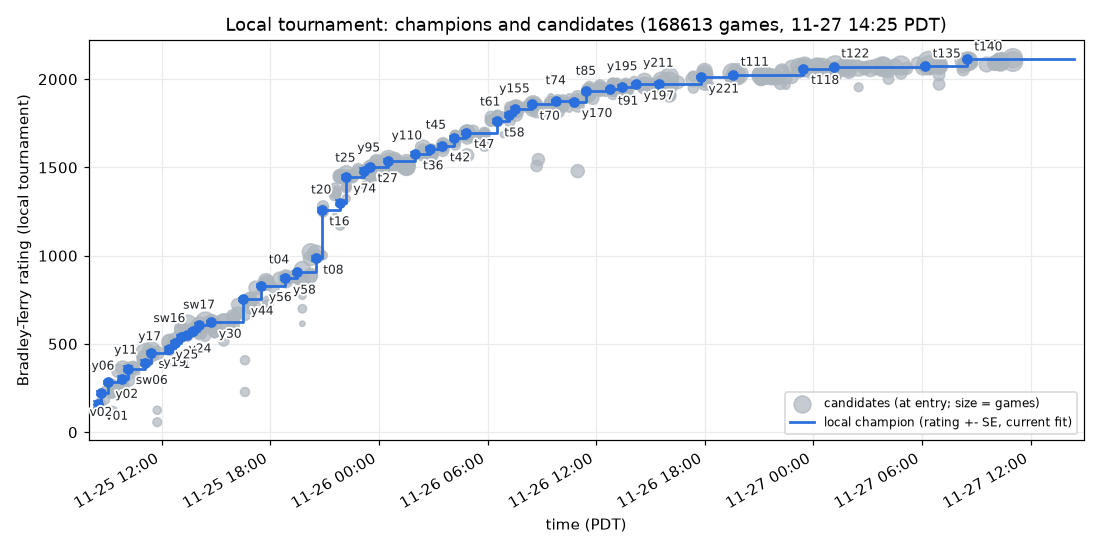
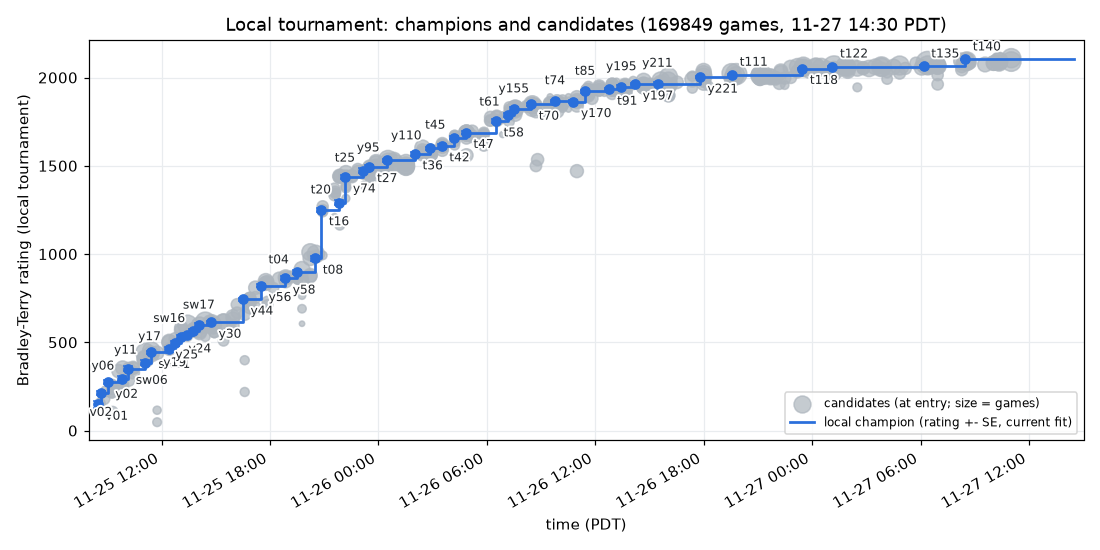
prod: newcomers' first games (tr440-tr441), queue to tr446
Claude-Session: https://claude.ai/code/session_01SzziPSCWtjsjju9cnThDf5

diff --git a/progress/local-elo.md b/progress/local-elo.md
@@ -1,55 +1,55 @@
 # Local tournament Elo
 
-Bradley-Terry ratings of our own bots in the local tournament (`tools/tourney.py`), all 168613 games in one fit as of 2026-11-27 14:26 PDT, so every point is on the same scale; earlier champions are shown at their current rating, and "Gain" is the rating over the champion it replaced. `tools/tourney.py rank` rewrites this table; `tools/tourney.py chart` also redraws the chart.
+Bradley-Terry ratings of our own bots in the local tournament (`tools/tourney.py`), all 169849 games in one fit as of 2026-11-27 14:31 PDT, so every point is on the same scale; earlier champions are shown at their current rating, and "Gain" is the rating over the champion it replaced. `tools/tourney.py rank` rewrites this table; `tools/tourney.py chart` also redraws the chart.
 
 ![local elo](local-elo.png)
 
 | Champion from (PDT) | Bot | Change on base | Submission | Rating +- SE | Gain | Games |
 |---|---|---|---:|---:|---:|---:|
-| 2026-11-25 08:28 | v01 | foundation bot |  | 158 +- 18 |  | 435 |
-| 2026-11-25 08:39 | v02 | nav wall-follow fix + bytecode guards on v01 | #6 | 223 +- 13 | +65 | 801 |
-| 2026-11-25 09:01 | y02 | paint-heavy tower mix + paint towers upgraded first on v02 | #7 | 282 +- 11 | +59 | 1080 |
-| 2026-11-25 09:49 | y06 | 3 opening soldiers instead of 2 on y02 | #35 | 303 +- 13 | +21 | 700 |
-| 2026-11-25 10:09 | sw06 | no moppers before r80; a third of spawns moppers after (field study 1) on y02 | #36 | 361 +- 12 | +79 | 863 |
-| 2026-11-25 11:04 | y11 | mid-game mix 3 moppers per 6 (soldier mopper splasher mopper soldier mopper) on sw06 | #37 | 393 +- 14 | +33 | 655 |
-| 2026-11-25 11:24 | sw11 | at most 1 helper soldier per ruin (more ruins claimed in parallel) on y11 | #38 | 451 +- 11 | +58 | 1159 |
-| 2026-11-25 12:24 | y17 | sw11 + moppers prefer enemies within r2 25 of our towers (sw12) on sw11 | #39 | 470 +- 12 | +18 | 871 |
-| 2026-11-25 12:44 | y19 | sw11 with soldiers joining an occupied ruin only when adjacent (r2<=2) on y17 | #40 | 505 +- 14 | +35 | 678 |
-| 2026-11-25 13:04 | y24 | y17 with mopper defence widened (DEFEND_R2 36 / bonus 80) on y19 | #41 | 539 +- 13 | +35 | 679 |
-| 2026-11-25 13:24 | y25 | y19 (adjacent-only ruin helping) + y17 tower-defending moppers on y24 | #42 | 549 +- 12 | +9 | 898 |
-| 2026-11-25 13:44 | sw16 | y25 + soldier siege: with no ruin and paint>=80 kite a known enemy tower within r2 64 on y25 | #43 | 573 +- 11 | +24 | 976 |
-| 2026-11-25 14:04 | sw17 | y28 (siege from 50 paint r2 100) + splasher siege (towers weigh 40; walk to known tower within r2 100 at paint>=100) on sw16 | #44 | 606 +- 10 | +33 | 1110 |
-| 2026-11-25 14:44 | y30 | y28 with soldier siege from 30 paint within r2 144 (no splasher siege) on sw17 | #45 | 623 +- 7 | +17 | 2377 |
-| 2026-11-25 16:30 | y44 | study 3 tactic 3 (enemy refill policy): return at 50% paint (soldier 100/splasher 100/mopper 40) + end-of-turn top-up from any adjacent ally tower on y30 | #46 | 753 +- 8 | +131 | 2250 |
-| 2026-11-25 17:30 | y56 | study 3 tactic 4 (tower churn): a drained L1 money tower with intact pattern and an ally adjacent disintegrates at >=2000 chips; adjacent robots re-complete it for a fresh 500 paint on y44 | #47 | 831 +- 10 | +77 | 1320 |
-| 2026-11-25 18:50 | y58 | study 3 tactic 2 (early soldiers paint patterns not coverage): exploring soldiers paint no coverage before r50 on y56 | #48 | 872 +- 11 | +42 | 997 |
-| 2026-11-25 19:30 | t04 | t02 (no coverage painting before r80) + t03 (units wait beside drained money towers and repair their pattern so churn fires; study 3 tactics 2 and 4) on y58 | #49 | 905 +- 11 | +33 | 1065 |
-| 2026-11-25 20:30 | t08 | study 4 2.2 (contested ruins): soldiers skip a ruin with enemy paint in its visible 5x5 (bad for 50 rounds) on t04 | #50 | 985 +- 13 | +80 | 775 |
-| 2026-11-25 20:50 | t16 | t12 (t08 + study 4 2.1 spawn freeze 8 rounds in 20 below 1000+cost) + study 4 2.4 money-first: builds money until 8 towers then paint while paint towers < n/5; paint first only if none (all towers known) on t08 | #51 | 1260 +- 12 | +274 | 1213 |
-| 2026-11-25 21:50 | t20 | study 4 2.3: splashers weight enemy towers 30 (was 12) in the splash score on t16 | #52 | 1301 +- 15 | +41 | 587 |
-| 2026-11-25 22:10 | y74 | unit audit (owner prompt #15): splash-grid bug fix (enemy tiles never scored) + moppers stop once enemy paint is in mop reach; built on t16 on t20 | #53 | 1445 +- 10 | +145 | 1255 |
-| 2026-11-25 23:10 | t25 | unit audit + top teams' unit mix (616 S / 662 X / 701 M): after r80 paint towers cycle soldier-splasher-mopper; money towers keep S M X M S M on y74 | #54 | 1482 +- 13 | +36 | 680 |
-| 2026-11-25 23:30 | t27 | top teams' splasher-heavy late mix pushed further: paint towers cycle soldier-splasher-splasher-mopper after r80 on t25 | #55 | 1504 +- 9 | +23 | 1554 |
-| 2026-11-26 00:30 | y95 | upgrade spare 1200 (was 800): chips stay for new towers longer on t27 | #56 | 1539 +- 9 | +35 | 1822 |
-| 2026-11-26 02:01 | t36 | late SRPs (study 4 2.6 / study 3 tactic 7): soldiers without a ruin build SRPs on the x%4==2 y%4==2 lattice from r100 with chips>=1000; splashers avoid repainting SRP secondary tiles on y95 | #57 | 1576 +- 11 | +37 | 977 |
-| 2026-11-26 02:50 | y110 | money towers upgrade only with 2500 chips beyond the cost+spare (was 1000): chips go to new towers and SRPs on t36 | #58 | 1607 +- 10 | +31 | 1260 |
-| 2026-11-26 03:30 | t42 | study 4 3.1 recovery: with every tower known and no money tower left the next ruin is a money tower on y110 | #59 | 1622 +- 10 | +15 | 1332 |
-| 2026-11-26 04:10 | t45 | study 3 tactic 1: after r40 towers spawn only with 1000 chips beyond the unit's cost (no 600-chip window) on t42 | #60 | 1668 +- 10 | +46 | 1226 |
-| 2026-11-26 04:50 | t47 | study 3 tactic 5: a mopper due in the cycle spawns even below the 1000 reserve when an enemy robot is within d2 20 of the tower on t45 | #61 | 1697 +- 7 | +29 | 2398 |
-| 2026-11-26 06:30 | t58 | study 5 2.3: a splasher that has not splashed for 8 rounds (while able to) explores instead of chasing the nearest non-ally tile on t47 | #62 | 1763 +- 11 | +66 | 1087 |
-| 2026-11-26 07:10 | t61 | study 5 2.1 (softened): money towers for builds 1-5; then one more paint tower per 4 towers on t58 | #63 | 1799 +- 11 | +36 | 938 |
-| 2026-11-26 07:30 | y155 | study 5 2.1 tuned: money towers for builds 1-6; then one more paint tower per 4 towers on t61 | #64 | 1831 +- 9 | +32 | 1615 |
-| 2026-11-26 08:27 | t70 | y155 + splashers weight enemy towers 30 (t68) + 2000+ chips makes the next tower a paint tower (y159) on y155 | #65 | 1858 +- 7 | +27 | 2530 |
-| 2026-11-26 09:47 | t74 | moppers weight enemy paint near ruins 40 (study 6 2.1c) on t70 | #66 | 1877 +- 8 | +19 | 2200 |
-| 2026-11-26 10:47 | y170 | soldiers make the next tower a paint tower at 1500+ chips (t63 tuning; was 2000) on t74 | #67 | 1873 +- 7 | -4 | 2823 |
-| 2026-11-26 11:27 | t85 | study 6 2.2 ruin denial from where the soldier stands: a soldier with no ruin paints empty tiles of a ruin the enemy is building; without walking to it on y170 | #68 | 1931 +- 7 | +58 | 2556 |
-| 2026-11-26 12:47 | t91 | study 7 2.5: moppers ignore ruins under enemy towers when weighting ruin paint on t85 | #69 | 1943 +- 5 | +12 | 5663 |
-| 2026-11-26 13:27 | y195 | study 7 2.1a: explore unseen tiles first; up to 16 random draws on t91 | #70 | 1956 +- 9 | +14 | 1349 |
-| 2026-11-26 14:12 | y197 | ruin denial stops at 2 of our tiles (tuning of study 6 2.2) on y195 | #71 | 1972 +- 7 | +16 | 2235 |
-| 2026-11-26 15:27 | y211 | study 7 2.1a tuned: up to 128 random draws for an unseen explore target (was 16) on y197 | #72 | 1976 +- 6 | +3 | 4141 |
-| 2026-11-26 17:47 | y221 | study 8 2.2 (paint the first tower's pattern on the way in; a second soldier on the first ruin) + explore timeout 90; first champion through the confirmation stage (owner #46) on y211 | #73 | 2011 +- 5 | +36 | 6990 |
-| 2026-11-26 19:34 | t111 | splashers attack enemy paint/money towers from a stand-off tile outside their range (study 8 2.4) on y221 | #74 | 2025 +- 4 | +14 | 7551 |
-| 2026-11-26 23:27 | t118 | study 9 2.1b: a soldier on a blocked pattern with no own mopper or splasher in view gives up after 5 turns (was 25); confirmed +71 +-29 in 153 fresh games on t111 | #75 | 2060 +- 5 | +35 | 13394 |
-| 2026-11-27 01:07 | t122 | study 9 2.4: paint-tower dry flags expire after 10 rounds (was 40) and a flagged tower in sight is re-sensed; confirmed +6 +-19 in 378 fresh games; +16 overall on t118 | #76 | 2072 +- 4 | +12 | 16745 |
-| 2026-11-27 06:10 | t135 | study 10 2.6d: a soldier with no other soldier in view skips the 25-paint pattern mark (the top teams never mark); confirmed +9 +-22 in 262 fresh games; +14 overall on t122 | #77 | 2072 +- 6 | +0 | 5817 |
-| 2026-11-27 08:28 | t140 (now r140, verified identical) | study 11 2.1: free single marks (rc.mark on the 5x5 outer ring) replace the 25-paint pattern mark; marks re-read beside the ruin; confirmed +40 +-23 in 251 fresh games; +30 overall on t135 | #78 | 2112 +- 6 | +40 | 11725 |
+| 2026-11-25 08:28 | v01 | foundation bot |  | 149 +- 18 |  | 435 |
+| 2026-11-25 08:39 | v02 | nav wall-follow fix + bytecode guards on v01 | #6 | 214 +- 13 | +65 | 801 |
+| 2026-11-25 09:01 | y02 | paint-heavy tower mix + paint towers upgraded first on v02 | #7 | 273 +- 11 | +59 | 1080 |
+| 2026-11-25 09:49 | y06 | 3 opening soldiers instead of 2 on y02 | #35 | 294 +- 13 | +21 | 700 |
+| 2026-11-25 10:09 | sw06 | no moppers before r80; a third of spawns moppers after (field study 1) on y02 | #36 | 352 +- 12 | +79 | 863 |
+| 2026-11-25 11:04 | y11 | mid-game mix 3 moppers per 6 (soldier mopper splasher mopper soldier mopper) on sw06 | #37 | 384 +- 14 | +33 | 655 |
+| 2026-11-25 11:24 | sw11 | at most 1 helper soldier per ruin (more ruins claimed in parallel) on y11 | #38 | 442 +- 11 | +58 | 1159 |
+| 2026-11-25 12:24 | y17 | sw11 + moppers prefer enemies within r2 25 of our towers (sw12) on sw11 | #39 | 460 +- 12 | +18 | 871 |
+| 2026-11-25 12:44 | y19 | sw11 with soldiers joining an occupied ruin only when adjacent (r2<=2) on y17 | #40 | 496 +- 14 | +35 | 678 |
+| 2026-11-25 13:04 | y24 | y17 with mopper defence widened (DEFEND_R2 36 / bonus 80) on y19 | #41 | 530 +- 13 | +35 | 679 |
+| 2026-11-25 13:24 | y25 | y19 (adjacent-only ruin helping) + y17 tower-defending moppers on y24 | #42 | 539 +- 12 | +9 | 898 |
+| 2026-11-25 13:44 | sw16 | y25 + soldier siege: with no ruin and paint>=80 kite a known enemy tower within r2 64 on y25 | #43 | 564 +- 11 | +24 | 976 |
+| 2026-11-25 14:04 | sw17 | y28 (siege from 50 paint r2 100) + splasher siege (towers weigh 40; walk to known tower within r2 100 at paint>=100) on sw16 | #44 | 597 +- 10 | +33 | 1110 |
+| 2026-11-25 14:44 | y30 | y28 with soldier siege from 30 paint within r2 144 (no splasher siege) on sw17 | #45 | 614 +- 7 | +17 | 2377 |
+| 2026-11-25 16:30 | y44 | study 3 tactic 3 (enemy refill policy): return at 50% paint (soldier 100/splasher 100/mopper 40) + end-of-turn top-up from any adjacent ally tower on y30 | #46 | 744 +- 8 | +131 | 2250 |
+| 2026-11-25 17:30 | y56 | study 3 tactic 4 (tower churn): a drained L1 money tower with intact pattern and an ally adjacent disintegrates at >=2000 chips; adjacent robots re-complete it for a fresh 500 paint on y44 | #47 | 822 +- 10 | +77 | 1320 |
+| 2026-11-25 18:50 | y58 | study 3 tactic 2 (early soldiers paint patterns not coverage): exploring soldiers paint no coverage before r50 on y56 | #48 | 863 +- 11 | +42 | 997 |
+| 2026-11-25 19:30 | t04 | t02 (no coverage painting before r80) + t03 (units wait beside drained money towers and repair their pattern so churn fires; study 3 tactics 2 and 4) on y58 | #49 | 896 +- 11 | +33 | 1065 |
+| 2026-11-25 20:30 | t08 | study 4 2.2 (contested ruins): soldiers skip a ruin with enemy paint in its visible 5x5 (bad for 50 rounds) on t04 | #50 | 976 +- 13 | +80 | 775 |
+| 2026-11-25 20:50 | t16 | t12 (t08 + study 4 2.1 spawn freeze 8 rounds in 20 below 1000+cost) + study 4 2.4 money-first: builds money until 8 towers then paint while paint towers < n/5; paint first only if none (all towers known) on t08 | #51 | 1251 +- 12 | +274 | 1213 |
+| 2026-11-25 21:50 | t20 | study 4 2.3: splashers weight enemy towers 30 (was 12) in the splash score on t16 | #52 | 1292 +- 15 | +41 | 587 |
+| 2026-11-25 22:10 | y74 | unit audit (owner prompt #15): splash-grid bug fix (enemy tiles never scored) + moppers stop once enemy paint is in mop reach; built on t16 on t20 | #53 | 1436 +- 10 | +145 | 1255 |
+| 2026-11-25 23:10 | t25 | unit audit + top teams' unit mix (616 S / 662 X / 701 M): after r80 paint towers cycle soldier-splasher-mopper; money towers keep S M X M S M on y74 | #54 | 1473 +- 13 | +36 | 680 |
+| 2026-11-25 23:30 | t27 | top teams' splasher-heavy late mix pushed further: paint towers cycle soldier-splasher-splasher-mopper after r80 on t25 | #55 | 1495 +- 9 | +23 | 1554 |
+| 2026-11-26 00:30 | y95 | upgrade spare 1200 (was 800): chips stay for new towers longer on t27 | #56 | 1530 +- 9 | +35 | 1822 |
+| 2026-11-26 02:01 | t36 | late SRPs (study 4 2.6 / study 3 tactic 7): soldiers without a ruin build SRPs on the x%4==2 y%4==2 lattice from r100 with chips>=1000; splashers avoid repainting SRP secondary tiles on y95 | #57 | 1567 +- 11 | +37 | 977 |
+| 2026-11-26 02:50 | y110 | money towers upgrade only with 2500 chips beyond the cost+spare (was 1000): chips go to new towers and SRPs on t36 | #58 | 1598 +- 10 | +31 | 1260 |
+| 2026-11-26 03:30 | t42 | study 4 3.1 recovery: with every tower known and no money tower left the next ruin is a money tower on y110 | #59 | 1613 +- 10 | +15 | 1332 |
+| 2026-11-26 04:10 | t45 | study 3 tactic 1: after r40 towers spawn only with 1000 chips beyond the unit's cost (no 600-chip window) on t42 | #60 | 1659 +- 10 | +46 | 1226 |
+| 2026-11-26 04:50 | t47 | study 3 tactic 5: a mopper due in the cycle spawns even below the 1000 reserve when an enemy robot is within d2 20 of the tower on t45 | #61 | 1688 +- 7 | +29 | 2398 |
+| 2026-11-26 06:30 | t58 | study 5 2.3: a splasher that has not splashed for 8 rounds (while able to) explores instead of chasing the nearest non-ally tile on t47 | #62 | 1754 +- 11 | +66 | 1087 |
+| 2026-11-26 07:10 | t61 | study 5 2.1 (softened): money towers for builds 1-5; then one more paint tower per 4 towers on t58 | #63 | 1790 +- 11 | +36 | 938 |
+| 2026-11-26 07:30 | y155 | study 5 2.1 tuned: money towers for builds 1-6; then one more paint tower per 4 towers on t61 | #64 | 1821 +- 9 | +32 | 1615 |
+| 2026-11-26 08:27 | t70 | y155 + splashers weight enemy towers 30 (t68) + 2000+ chips makes the next tower a paint tower (y159) on y155 | #65 | 1848 +- 7 | +27 | 2530 |
+| 2026-11-26 09:47 | t74 | moppers weight enemy paint near ruins 40 (study 6 2.1c) on t70 | #66 | 1867 +- 8 | +19 | 2200 |
+| 2026-11-26 10:47 | y170 | soldiers make the next tower a paint tower at 1500+ chips (t63 tuning; was 2000) on t74 | #67 | 1863 +- 7 | -4 | 2823 |
+| 2026-11-26 11:27 | t85 | study 6 2.2 ruin denial from where the soldier stands: a soldier with no ruin paints empty tiles of a ruin the enemy is building; without walking to it on y170 | #68 | 1921 +- 7 | +58 | 2556 |
+| 2026-11-26 12:47 | t91 | study 7 2.5: moppers ignore ruins under enemy towers when weighting ruin paint on t85 | #69 | 1933 +- 5 | +12 | 5663 |
+| 2026-11-26 13:27 | y195 | study 7 2.1a: explore unseen tiles first; up to 16 random draws on t91 | #70 | 1947 +- 9 | +14 | 1349 |
+| 2026-11-26 14:12 | y197 | ruin denial stops at 2 of our tiles (tuning of study 6 2.2) on y195 | #71 | 1963 +- 7 | +16 | 2235 |
+| 2026-11-26 15:27 | y211 | study 7 2.1a tuned: up to 128 random draws for an unseen explore target (was 16) on y197 | #72 | 1966 +- 6 | +3 | 4141 |
+| 2026-11-26 17:47 | y221 | study 8 2.2 (paint the first tower's pattern on the way in; a second soldier on the first ruin) + explore timeout 90; first champion through the confirmation stage (owner #46) on y211 | #73 | 2002 +- 5 | +36 | 6990 |
+| 2026-11-26 19:34 | t111 | splashers attack enemy paint/money towers from a stand-off tile outside their range (study 8 2.4) on y221 | #74 | 2015 +- 4 | +14 | 7551 |
+| 2026-11-26 23:27 | t118 | study 9 2.1b: a soldier on a blocked pattern with no own mopper or splasher in view gives up after 5 turns (was 25); confirmed +71 +-29 in 153 fresh games on t111 | #75 | 2051 +- 5 | +36 | 14179 |
+| 2026-11-27 01:07 | t122 | study 9 2.4: paint-tower dry flags expire after 10 rounds (was 40) and a flagged tower in sight is re-sensed; confirmed +6 +-19 in 378 fresh games; +16 overall on t118 | #76 | 2062 +- 4 | +11 | 17538 |
+| 2026-11-27 06:10 | t135 | study 10 2.6d: a soldier with no other soldier in view skips the 25-paint pattern mark (the top teams never mark); confirmed +9 +-22 in 262 fresh games; +14 overall on t122 | #77 | 2063 +- 6 | +0 | 5817 |
+| 2026-11-27 08:28 | t140 (now r140, verified identical) | study 11 2.1: free single marks (rc.mark on the 5x5 outer ring) replace the 25-paint pattern mark; marks re-read beside the ruin; confirmed +40 +-23 in 251 fresh games; +30 overall on t135 | #78 | 2102 +- 6 | +40 | 12584 |
